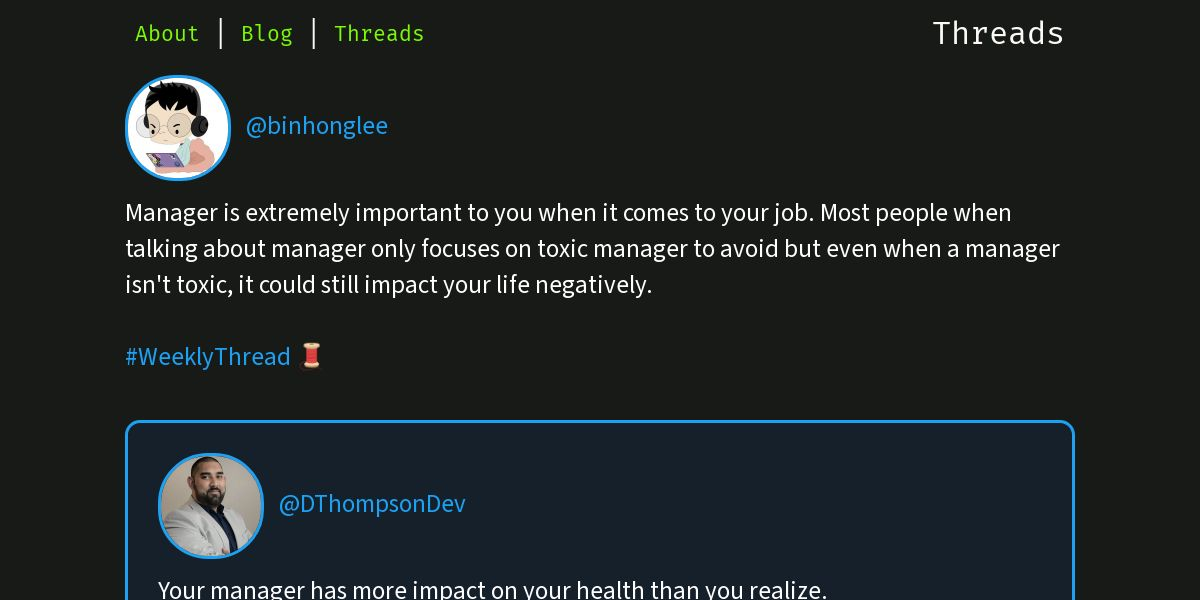
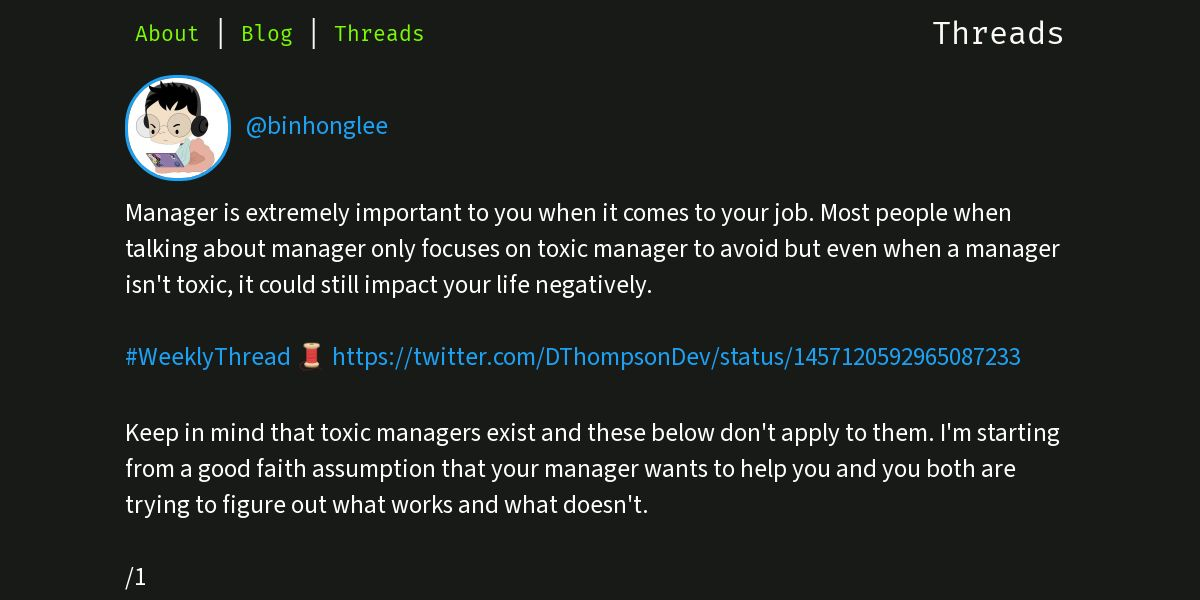
deploy: 0714549962a945e1157787a0ac6f338762d50888

Changed region(s): [[0.0925, 0.69, 0.8942, 1.0], [0.2775, 0.57, 0.8633, 0.63]]

diff --git a/1534983082096242689.html b/1534983082096242689.html
@@ -1,0 +1,117 @@
+<!DOCTYPE html>
+<html lang="en">
+  <head>
+    <link data-rh="true" rel="shortcut icon" href="https://binhong.me/images/profile.png" type="image/x-icon">
+    <meta charset="utf-8">
+    <meta name="viewport" content="initial-scale=0.75">
+    <meta property="og:locale" content="en_US">
+    <meta property="og:type" content="profile">
+    <meta property="og:url" content="https://binhong.me/threads">
+    <meta property="og:site_name" content="Threads by BinHong Lee">
+    <meta property="og:title" content="Threads">
+    <meta property="og:description" content="This is the least surprising thing I've read all year tbh. If you've looked into its contribution chart on GitHub anytime over the past 2 years, you probably saw this coming. If anything, it's surprising that it took so long.  https://t.co/m2XVQb6MY3">
+    <meta property="og:image" content="https://binhong.me/threads/preview/1534983082096242689.jpg">
+    <meta property="og:profile:first_name" content="BinHong">
+    <meta property="og:profile:last_name" content="Lee">
+    <meta property="og:username" content="binhong">
+    <meta name="twitter:card" content="summary_large_image">
+    <meta name="twitter:description" content="This is the least surprising thing I've read all year tbh. If you've looked into its contribution chart on GitHub anytime over the past 2 years, you probably saw this coming. If anything, it's surprising that it took so long.  https://t.co/m2XVQb6MY3">
+    <meta name="twitter:title" content="Threads by BinHong Lee">
+    <meta name="twitter:image" content="https://binhong.me/threads/preview/1534983082096242689.jpg">
+    <meta name="twitter:image:alt" content="Commissioned image icon of me coding with a pair of black headphones on while sitting on a pink bean bag wearing a light blue hoodie. The laptop is purple with a bunch of mostly MLH demo stickers on it.">
+    <meta name="twitter:site" content="@binhonglee">
+    <meta name="robots" content="max-image-preview:large">
+    <meta name="image" content="https://binhong.me/threads/preview/1534983082096242689.jpg" />
+    <title>Threads by BinHong Lee</title>
+    <link rel="stylesheet" href="https://binhong.me/fonts/fonts.css">
+    <link rel="stylesheet" href="./threads.css">
+    <link rel="stylesheet" href="https://binhong.me/blog/style.css">
+  </head>
+  <body>
+    <details class="dark_mode_toggle" role="button" open>
+      <summary>
+        <div class="content">
+          <div class="secondary_block">
+            <p class="name-title">Threads</p>
+          </div>
+        </div>
+      </summary>
+    </details>
+    <div class="wrapper">
+      <div class="content dropdown">
+        <button class="dropdown_toggle">+</button>
+        <div class="header_links">
+          <a class="link" href="https://binhong.me/">About</a>
+          <p>|</p>
+          <a class="link" href="https://binhong.me/blog">Blog</a>
+          <p>|</p>
+          <a class="link" href="https://binhong.me/threads">Threads</a>
+        </div>
+      </div>
+      <div class="content_body primary_block">
+        <div class="content tweet_block">
+          <div class="tweet_block">
+            <a rel="noopener noreferrer author" href="https://twitter.com/binhonglee/">
+              <div class="profile_picture_block">
+                <img src="https://pbs.twimg.com/profile_images/1473762920584531969/K5ay-Frc_200x200.jpg" alt="Profile picture of @binhonglee on Twitter." />
+                @binhonglee
+              </div>
+            </a>
+            <p class="text">This is the least surprising thing I've read all year tbh. If you've looked into its contribution chart on GitHub anytime over the past 2 years, you probably saw this coming. If anything, it's surprising that it took so long.
+            <br />
+            <br /><a style="word-break:break-all;" rel="noopener noreferrer" href="https://github.blog/2022-06-08-sunsetting-atom/" >https://github.blog/2022-06-08-sunsetting-atom/</a></p>
+            <p class="text">Imo vscode "won" mainly through 2 basis.
+            <br />
+            <br />1. Microsoft probably favored vscode and have no reason to maintain 2 editors post GitHub acquisition
+            <br />2. Performance - vscode is an outlier among electron apps. (eg. syntax highlighting file size limit is 2MB on Atom and 10MB on vscode)</p>
+            <p class="text">Tbh I'm still a bit bitter that we are now stuck with vscode instead of Atom (+ Nuclide) getting the performance boost. I still love Atom's aesthetics, and Atom is much more customizable afaik (compared to vscode).</p>
+            <p class="text">Also, Atom is *fully* open source while VSCode is *mostly* open source. The difference is probably negligible for most people but the fact that VSCodium needed to exist speaks volumes about it.</p>
+            <div class="tweet">
+              <a rel="noopener noreferrer" href="https://twitter.com/binhonglee/">
+                <div class="profile_picture_block">
+                  <img src="https://pbs.twimg.com/profile_images/1473762920584531969/K5ay-Frc_200x200.jpg" alt="Profile picture of @binhonglee on Twitter." />
+                  @binhonglee
+                </div>
+              </a>
+              <p class="text">For reference, here are the product download page comparison between then and now. Notice the subtle change in language from "Open source" to "Built on open source".</p>
+              <div class="tweet_img_block">
+                <img class="tweet_img" src="https://pbs.twimg.com/media/Eg_SB8dVgAEteKi.jpg" />
+              </div>
+              <div class="tweet_img_block">
+                <img class="tweet_img" src="https://pbs.twimg.com/media/Eg_SCJGUwAUemGU.jpg" />
+              </div>
+              <p class="date">
+                <a rel="noopener noreferrer" href="https://twitter.com/binhonglee/status/1301489753922002947">Read more...</a>
+              </p>
+            </div>
+            <p class="text">Many features that a lot of people use (and love) on VSCode is fully proprietary and unsupported on VSCodium (or if you compile from source). For eg, WSL connection, Live Share... Even using the extension marketplace on it is legally ambiguous.
+            <br />
+            <br /><a style="word-break:break-all;" rel="noopener noreferrer" href="https://github.com/microsoft/vscode/issues/31168" >https://github.com/microsoft/vscode/issues/31168</a></p>
+            <p class="text">At work, I use VSCode exclusively. For personal projects, I have a Windows laptop and I do my development on WSL so VSCode is my only option but I definitely wish there's an alternative that allows me to do some sort of remote development with stable connection.
+            <br />
+            <br />/rant</p>
+            <p class="date">
+              <a rel="noopener noreferrer alternate" href="https://twitter.com/binhonglee/status/1534983076115165184">6/9/2022</a>
+            </p>
+          </div>
+        </div>
+      </div>
+      <footer class="content">
+        <div class="primary_block footer">
+          <div class="row">
+            <p>Fonts:</p>
+            <a href="https://github.com/tonsky/FiraCode/" rel="noopener" target="_blank">Fira Code</a>,
+            <a href="https://github.com/adobe-fonts/source-sans/" rel="noopener" target="_blank" class="name">Source Sans 3</a>
+          </div>
+          <div class="row">
+            <a href="https://github.com/binhonglee/threads" rel="noopener" target="_blank">Source (GitHub)</a> </p>
+          </div>
+          <div class="row">
+            <p>&copy; 2021</p>
+            <a class="name" href="https://binhong.me">BinHong Lee</a>
+          </div>
+        </div>
+      </footer>
+    </div>
+  </body>
+</html>

diff --git a/1530566974744383489.html b/1530566974744383489.html
@@ -63,21 +63,9 @@
             <br />
             <br />Thread...</p>
             <p class="text">One of the most common type of personal goal is "New Year Resolutions". Every year, some people will set (and even publicly announce) what they plan to achieve for the upcoming year. Many however, falls short on actually completing them and repeats this cycle next year.</p>
-            <p class="text">As <a rel="noopener noreferrer" href="https://twitter.com/DThompsonDev" >@DThompsonDev</a> puts it, don't wait for the new year to change. Change can start anytime of the year whenever you decide to start. Start now instead of waiting for the right time!</p>
-            <div class="tweet">
-              <a rel="noopener noreferrer" href="https://twitter.com/DThompsonDev/">
-                <div class="profile_picture_block">
-                  <img src="https://pbs.twimg.com/profile_images/1501313897202077705/UUciK62t_200x200.jpg" alt="Profile picture of @DThompsonDev on Twitter." />
-                  @DThompsonDev
-                </div>
-              </a>
-              <p class="text">When 2021 began you had a lot of goals. How did you do?
-              <br />
-              <br />If you haven't made progress you still have 6 weeks left to start! Forget "New Year New me!" Today is a New Day and You absolutely got this! This could be the moment you look back on from your new position in life!</p>
-              <p class="date">
-                <a rel="noopener noreferrer" href="https://twitter.com/DThompsonDev/status/1459947489482706952">Read more...</a>
-              </p>
-            </div>
+            <p class="text">As <a rel="noopener noreferrer" href="https://twitter.com/DThompsonDev" >@DThompsonDev</a> puts it, don't wait for the new year to change. Change can start anytime of the year whenever you decide to start. Start now instead of waiting for the right time!
+            <br />
+            <br /><a style="word-break:break-all;" rel="noopener noreferrer" href="https://twitter.com/DThompsonDev/status/1459947489482706952" >https://twitter.com/DThompsonDev/status/1459947489482706952</a></p>
             <p class="text">It's probably hard to "punish" yourself for missing a target so instead, you could try positive reinforcements. One common mistake is to reward yourself before you even started. This gives you little incentive to actually achieve the goal.</p>
             <p class="text">Instead of buying a new pair of shoes to motivate yourself to pick up running, commit to actually run 5 days a week for 2 months before rewarding yourself with that new pair of shoes. (Unless if you don't have a decent shoe to run in at all, get something cheaper for now.)</p>
             <p class="text">On the other end of the spectrum, some people would self-guilt heavily for not hitting a specific (and often overly ambitious) target. While it's important to self reflect on what one could've done better, it's also important to not spiral into self-blaming.</p>

diff --git a/index.html b/index.html
@@ -58,6 +58,20 @@
                 @binhonglee
               </div>
             </a>
+            <p class="text">This is the least surprising thing I've read all year tbh. If you've looked into its contribution chart on GitHub anytime over the past 2 years, you probably saw this coming. If anything, it's surprising that it took so long.
+            <br />
+            <br /><a style="word-break:break-all;" rel="noopener noreferrer" href="https://github.blog/2022-06-08-sunsetting-atom/" >https://github.blog/2022-06-08-sunsetting-atom/</a></p>
+            <p class="date">
+              <a href="./1534983082096242689.html">Read this thread...</a>
+            </p>
+          </div>
+          <div class="tweet">
+            <a rel="noopener noreferrer" href="https://twitter.com/binhonglee/">
+              <div class="profile_picture_block">
+                <img src="https://pbs.twimg.com/profile_images/1473762920584531969/K5ay-Frc_200x200.jpg" alt="Profile picture of @binhonglee on Twitter." />
+                @binhonglee
+              </div>
+            </a>
             <p class="text">Setting personal goals
             <br />
             <br />Imo, setting personal goals requires a balance between holding yourself accountable and not self-blame for missing an overly ambitious target.
@@ -276,16 +290,7 @@
             </a>
             <p class="text">Manager is extremely important to you when it comes to your job. Most people when talking about manager only focuses on toxic manager to avoid but even when a manager isn't toxic, it could still impact your life negatively.
             <br />
-            <br /><a rel="noopener noreferrer" href="https://twitter.com/hashtag/WeeklyThread" >#WeeklyThread</a> 🧵</p>
-            <div class="quoted_tweet">
-              Your manager has more impact on your health than you realize.
-              <br/>
-              <p>
-                - <a rel="noopener noreferrer" href="https://twitter.com/DThompsonDev/">@DThompsonDev</a>
-                <br />
-                <a rel="noopener noreferrer" href="https://twitter.com/DThompsonDev/status/1457120592965087233">Read more...</a>
-              </p>
-            </div>
+            <br /><a rel="noopener noreferrer" href="https://twitter.com/hashtag/WeeklyThread" >#WeeklyThread</a> 🧵 <a style="word-break:break-all;" rel="noopener noreferrer" href="https://twitter.com/DThompsonDev/status/1457120592965087233" >https://twitter.com/DThompsonDev/status/1457120592965087233</a></p>
             <p class="date">
               <a href="./1457409282698190851.html">Read this thread...</a>
             </p>

diff --git a/1457409282698190851.html b/1457409282698190851.html
@@ -59,19 +59,7 @@
             </a>
             <p class="text">Manager is extremely important to you when it comes to your job. Most people when talking about manager only focuses on toxic manager to avoid but even when a manager isn't toxic, it could still impact your life negatively.
             <br />
-            <br /><a rel="noopener noreferrer" href="https://twitter.com/hashtag/WeeklyThread" >#WeeklyThread</a> 🧵</p>
-            <div class="tweet">
-              <a rel="noopener noreferrer" href="https://twitter.com/DThompsonDev/">
-                <div class="profile_picture_block">
-                  <img src="https://pbs.twimg.com/profile_images/1501313897202077705/UUciK62t_200x200.jpg" alt="Profile picture of @DThompsonDev on Twitter." />
-                  @DThompsonDev
-                </div>
-              </a>
-              <p class="text">Your manager has more impact on your health than you realize.</p>
-              <p class="date">
-                <a rel="noopener noreferrer" href="https://twitter.com/DThompsonDev/status/1457120592965087233">Read more...</a>
-              </p>
-            </div>
+            <br /><a rel="noopener noreferrer" href="https://twitter.com/hashtag/WeeklyThread" >#WeeklyThread</a> 🧵 <a style="word-break:break-all;" rel="noopener noreferrer" href="https://twitter.com/DThompsonDev/status/1457120592965087233" >https://twitter.com/DThompsonDev/status/1457120592965087233</a></p>
             <p class="text">Keep in mind that toxic managers exist and these below don't apply to them. I'm starting from a good faith assumption that your manager wants to help you and you both are trying to figure out what works and what doesn't.
             <br />
             <br />/1</p>
